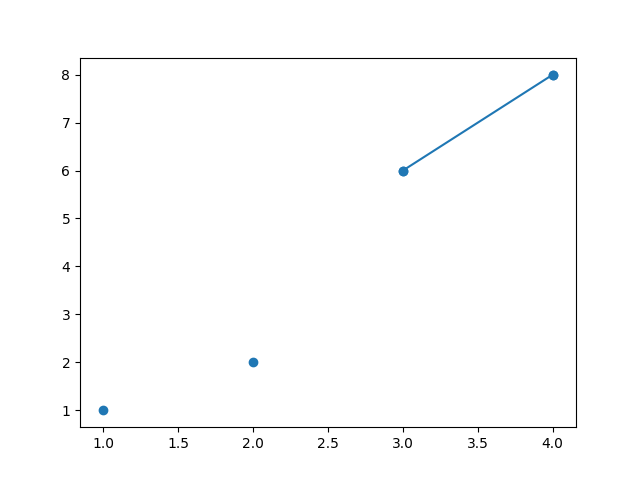
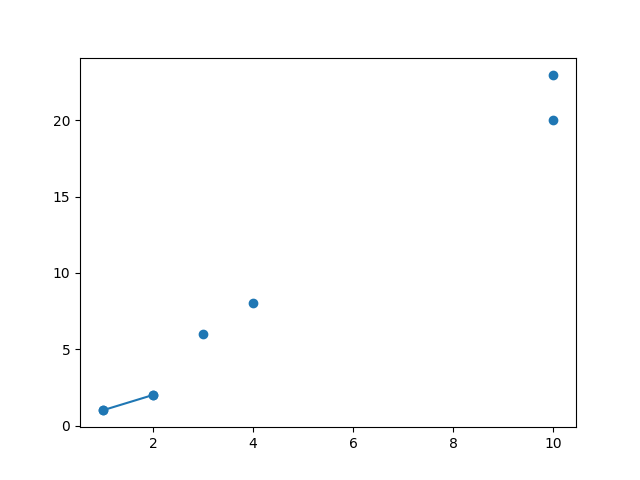
Documentation

diff --git a/Util.cpp b/Util.cpp
@@ -5,13 +5,13 @@
  * @version 0.1
  * @date 2019-03-31
  * 
- * @copyright Copyright (c) 2019
+ * @copyright Copyright (cost) 2019
  * 
  */
 #include "Util.h"
 #include <math.h>
-#include<algorithm>
-#include<vector>
+#include <algorithm>
+#include <vector>
 #define INF numeric_limits<double>::infinity()
 using namespace std;
 
@@ -47,17 +47,44 @@ vector<Point> Util::getInput(string input_path)
   }
   return points;
 }
-bool leftl(Point p1, Point p2)
+
+/**
+ * @brief Comparator function that compares points by their X co-ordinate
+ * 
+ * @param p1 
+ * @param p2 
+ * @return true 
+ * @return false 
+ */
+bool comparator(Point p1, Point p2)
 {
     return (p1.getX() < p2.getX() || (p1.getX() == p2.getX() && p1.getY() < p2.getY()));
 }
 
+/**
+ * @brief Function that sorts points by the increasing X co-ordinate
+ * 
+ * @param points 
+ * @return vector<Point> 
+ */
 vector<Point> Util::sortByX(vector<Point> points)
 {
-    sort(points.begin(), points.end(), leftl);
+    sort(points.begin(), points.end(), comparator);
     return points;
 }
 
+/**
+ * @brief Function that calculates the error matrix used to segment the lines
+ * 
+ * @param points 
+ * @param sum_xx 
+ * @param sum_xy 
+ * @param sum_y 
+ * @param sum_x 
+ * @param error 
+ * @param a 
+ * @param b 
+ */
 void Util::leastSquareError(vector<Point> points,vector<double> sum_xx,vector<double> sum_xy,vector<double> sum_y,vector<double> sum_x,vector<vector<double>> &error,vector<vector<double>> &a,vector<vector<double>> &b)
 {
     int size = points.size();
@@ -95,6 +122,12 @@ void Util::leastSquareError(vector<Point> points,vector<double> sum_xx,vector<do
 
 }
 
+/**
+ * @brief debugging function to print the values inside a matrix
+ * 
+ * @param matrix 
+ * @param size 
+ */
 void Util::printMatrix(vector<vector<double>> &matrix,int size)
 {
   for(int i = 0;i<size;i++ )
@@ -108,6 +141,15 @@ void Util::printMatrix(vector<vector<double>> &matrix,int size)
   cout << endl;
 }
 
+/**
+ * @brief Helper function to find the values used in error calculation beforehand to speed up calculation
+ * 
+ * @param points 
+ * @param sum_xx 
+ * @param sum_xy 
+ * @param sum_y 
+ * @param sum_x 
+ */
 void Util::precalculation(vector<Point> points,vector<double> &sum_xx,vector<double> &sum_xy,vector<double> &sum_y,vector<double> &sum_x)
 {
   for(int i =0;i<points.size();i++)
@@ -119,7 +161,16 @@ void Util::precalculation(vector<Point> points,vector<double> &sum_xx,vector<dou
   }
 }
 
-void Util::backtrack(int c,int size,vector<vector<double>> &error,vector<double> &res,vector<double> &segments)
+/**
+ * @brief Function that finds the line segments by backtracking through the error function
+ * 
+ * @param cost 
+ * @param size 
+ * @param error 
+ * @param res 
+ * @param segments 
+ */
+void Util::backtrack(int cost,int size,vector<vector<double>> &error,vector<double> &res,vector<double> &segments)
 {
       for(int j =1;j<=size;j++)
     {
@@ -127,9 +178,9 @@ void Util::backtrack(int c,int size,vector<vector<double>> &error,vector<double>
         int index;
         for(int i=1;i<=j;i++)
         {
-            if(error[i][j] + c + res[i-1]<temp)
+            if(error[i][j] + cost + res[i-1]<temp)
             {
-                temp = error[i][j] + c + res[i-1];
+                temp = error[i][j] + cost + res[i-1];
                 index = i;
             }
         }
@@ -138,6 +189,14 @@ void Util::backtrack(int c,int size,vector<vector<double>> &error,vector<double>
     }
 }
 
+/**
+ * @brief Function that prints the line segments to a file from where it can be used for visualisation
+ * 
+ * @param points 
+ * @param segments 
+ * @param a 
+ * @param b 
+ */
 void Util::printToFile(vector<Point> points, vector<double> &segments, vector<vector<double>> &a,vector<vector<double>> &b)
 {
 
@@ -149,10 +208,12 @@ void Util::printToFile(vector<Point> points, vector<double> &segments, vector<ve
     myfile.open("./outputs/2.txt");
     while(i>0)
     {
-        myfile << points[j-1].getX() << " " << points[j-1].getX()*a[j-1][i-1]+b[j-1][i-1] << " " << points[i-1].getX() << " " << points[i-1].getX()*a[j-1][i-1]+b[j-1][i-1]<< endl;
+        myfile << points[j-1].getX() << " " << points[j-1].getY() << " " << points[i-1].getX() << " " << points[i-1].getY() << endl;
         // cout << i << " " << j << " ";
         // cout << a[j-1][i-1] << " " << b[j-1][i-1] << endl;
         cout << points[j-1].getX() << " " << points[j-1].getX()*a[j-1][i-1]+b[j-1][i-1] << " " << points[i-1].getX() << " " << points[i-1].getX()*a[j-1][i-1]+b[j-1][i-1]<< endl;
+        cout << points[j-1].getY() << " " << points[j-1].getY()*a[j-1][i-1]+b[j-1][i-1] << " " << points[i-1].getY() << " " << points[i-1].getY()*a[j-1][i-1]+b[j-1][i-1]<< endl;
+
 
         i = j-1;
         j = segments[i];

diff --git a/Algo.cpp b/Algo.cpp
@@ -1,11 +1,11 @@
 /**
  * @file Util.cpp
  * @author your name (you@domain.com)
- * @brief Util Class which contains all the helper functions used in the convex hull algorithms.
+ * @brief Util Class which contains the implementation for the segmented least squares algorithm
  * @version 0.1
  * @date 2019-03-31
  * 
- * @copyright Copyright (c) 2019
+ * @copyright Copyright (cost) 2019
  * 
  */
 #include "Algo.h"
@@ -16,6 +16,11 @@
 using namespace std;
 Util u;
 
+/**
+ * @brief Implementation of the segmented least squares algorithm
+ * 
+ * @param points 
+ */
 void Algo::segmentedLeastSquares(vector<Point> points)
 {
     points = u.sortByX(points);
@@ -29,22 +34,17 @@ void Algo::segmentedLeastSquares(vector<Point> points)
     vector<double> sum_x(size,0.0);
     vector<double> sum_y(size,0.0);
     vector<double> res(size+1,0.0);
-    double c = 0;
-    // printf("Enter the additional cost of creating a new segment : ");
-	// scanf("%lf", &c);
+    double cost = 0.0;
+    printf("Enter the additional cost of creating a new segment : ");
+	scanf("%lf", &cost);
     vector<double> segments(size+1,0.0);
 
     u.precalculation(points,sum_xx,sum_xy,sum_y,sum_x);
     u.leastSquareError(points,sum_xx,sum_xy,sum_y,sum_x,error,a,b);
-    u.backtrack(c,size,error,res,segments);
+    u.backtrack(cost,size,error,res,segments);
     u.printToFile(points,segments,a,b);
 
 
-
-
-
-
-    
 
     
 }

diff --git a/viz.py b/viz.py
@@ -1,3 +1,9 @@
+"""@package Visualisation
+Script for Visualising the segmented lines.
+
+Takes as input the co-ordinates of Points. This input will be from a file.
+Stores the images and the GIF which helps to visualise the segmented lines.
+"""
 import matplotlib.pyplot as plt
 import imageio
 import os
@@ -35,11 +41,24 @@ plt.scatter(xs, ys)
 save_path = save_folder + '1.png'
 plt.savefig(save_path)
 
+quad = list(reversed(quad))
+
+k=2
 for j in range(len(quad)):
+    if(j>0):
+        s12 =(quad[j-1]["endx"], quad[j]["startx"])
+        t12 =(quad[j-1]["endy"], quad[j]["starty"])
+        plt.plot(s12,t12, marker = 'o')
+        plt.savefig(save_folder + str(k) + ".png")
+        k+=1
     x12 =(quad[j]["startx"], quad[j]["endx"])
     y12 =(quad[j]["starty"], quad[j]["endy"])
     plt.plot(x12,y12, marker = 'o')
-    plt.savefig(save_folder + str(j+2) + ".png")
+    plt.savefig(save_folder + str(k) + ".png")
+    k+=1
+
+
+
 
 images = []
 filenames = []
@@ -48,6 +67,8 @@ for file in os.listdir(path):
     filenames.append(os.path.join(path,file))
 for filename in sorted(filenames):
     images.append(imageio.imread(filename))
+
+print(sorted(filenames))
 imageio.mimsave(save_folder + 'res1.gif', images, duration=0.5)
 
 

diff --git a/Util.h b/Util.h
@@ -5,7 +5,7 @@
  * @version 0.1
  * @date 2019-03-31
  * 
- * @copyright Copyright (c) 2019
+ * @copyright Copyright (cost) 2019
  * 
  */
 #ifndef Util_H
@@ -26,10 +26,8 @@ class Util
     void leastSquareError(vector<Point> points,vector<double> sum_xx,vector<double> sum_xy,vector<double> sum_y,vector<double> sum_x,vector<vector<double>> &error,vector<vector<double>> &a,vector<vector<double>> &b);
     void printMatrix(vector<vector<double>> &matrix,int size);
     void precalculation(vector<Point> points,vector<double> &sum_xx,vector<double> &sum_xy,vector<double> &sum_y,vector<double> &sum_x);
-    void backtrack(int c,int size,vector<vector<double>> &error,vector<double> &res,vector<double> &segments);
+    void backtrack(int cost,int size,vector<vector<double>> &error,vector<double> &res,vector<double> &segments);
     void printToFile(vector<Point> points, vector<double> &segments, vector<vector<double>> &a,vector<vector<double>> &b);
-
-
 
 };
 

diff --git a/sol.cpp b/sol.cpp
@@ -44,7 +44,7 @@ int opt_segment[MAXN + 1];
 int main()	{
 	int N, i, j, k, interval;
 	long long x_sum, y_sum, xy_sum, xsqr_sum, num, denom;
-	double tmp, mn, C;
+	double tmp, mn, cost;
 	
 	printf("Enter the number of points : ");
 	scanf("%d", &N);
@@ -53,7 +53,7 @@ int main()	{
 		scanf("%d %d", &points[i].x, &points[i].y);
 		
 	printf("Enter the cost of creating a new segment : ");
-	scanf("%lf", &C);
+	scanf("%lf", &cost);
 	
 	// sort the points in non-decreasing order of x coordinate
 	sort (points + 1, points + N + 1);
@@ -112,7 +112,7 @@ int main()	{
 				k = i;
 			}
 		}
-		OPT[j] = mn + C;
+		OPT[j] = mn + cost;
 		opt_segment[j] = k;
 	}
 	

diff --git a/Point.cpp b/Point.cpp
@@ -5,7 +5,7 @@
  * @version 0.1
  * @date 2019-03-31
  * 
- * @copyright Copyright (c) 2019
+ * @copyright Copyright (cost) 2019
  * 
  */
 #include <iostream>

diff --git a/main.cpp b/main.cpp
@@ -5,7 +5,7 @@
  * @version 0.1
  * @date 2019-03-31
  * 
- * @copyright Copyright (c) 2019
+ * @copyright Copyright (cost) 2019
  * 
  */
 #include "Point.h"
